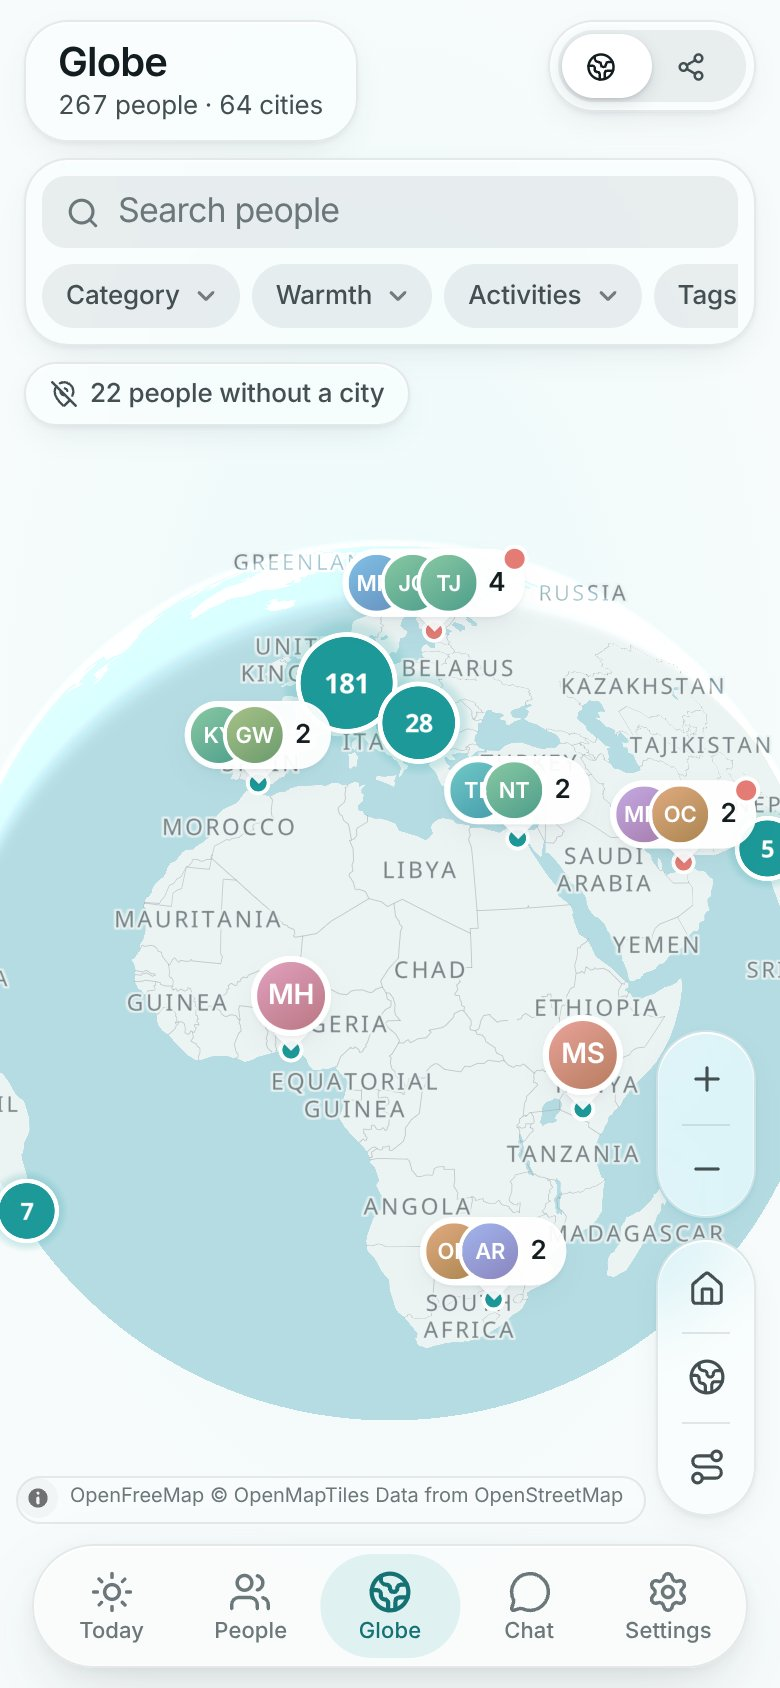
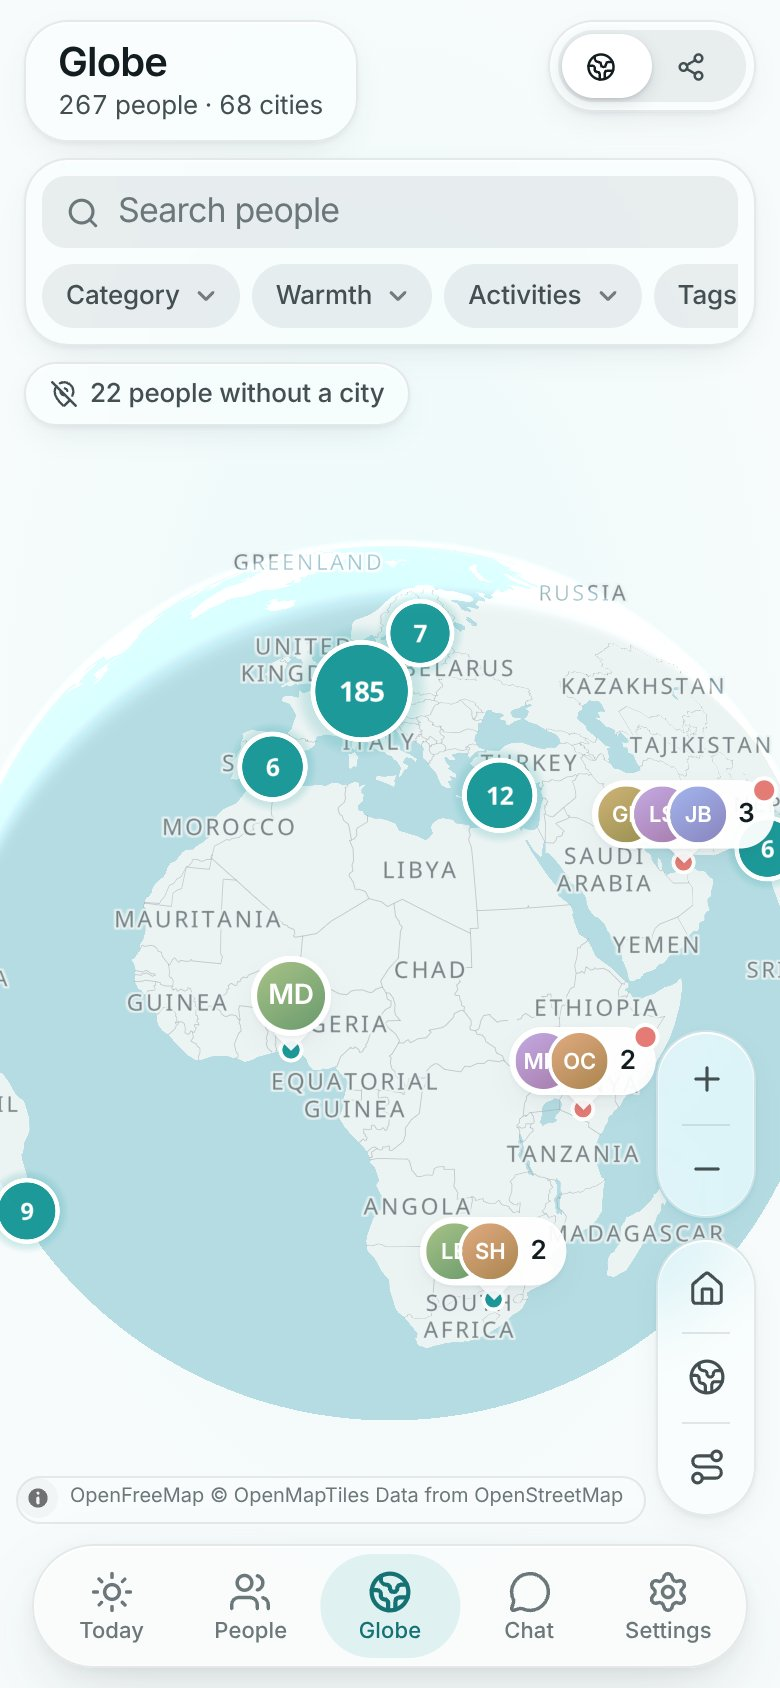
Seed: no leadership roles at real companies; screenshots retaken
A fictional 'CTO, Figma' points at a real person, so the generic seed only
attaches a company to ordinary employee roles. Cities are now assigned
deterministically, so re-seeding reproduces the screenshots. People, Today,
Globe and the social card are retaken from the real app.

Claude-Session: https://claude.ai/code/session_01SZ8xALtSGsx2UckXDu2Tt8

diff --git a/scripts/dev/seed-people.ts b/scripts/dev/seed-people.ts
@@ -55,6 +55,14 @@ const ROLES = [
   "PhD student", "Professor", "Marketing lead", "Data scientist", "Architect", "Doctor", "Lawyer", "Photographer", "Chef", "Journalist",
   "Product manager", "Engineering manager", "Sales director", "Consultant", "Teacher", "Researcher",
 ];
+/**
+ * Only common employee roles name an employer: a unique or leadership role (Founder, CTO, Partner,
+ * Angel investor …) at a real company would point at a real, identifiable person.
+ */
+const EMPLOYEE_ROLES = new Set([
+  "Software engineer", "Product designer", "Data scientist", "Marketing lead", "Product manager", "Engineering manager", "Sales director",
+  "Consultant", "Researcher",
+]);
 const COMPANIES = [
   "Stripe", "Figma", "Anthropic", "Notion", "Linear", "Vercel", "Index Ventures", "Sequoia",
   "ETH Lab", "ETH Zürich", "McKinsey", "Google", "Apple", "Spotify", "Revolut", "Klarna", "N26", "Wise",
@@ -100,7 +108,7 @@ async function seed(count: number) {
     from cities c where c.id = any(${cities.map((c) => c.id)}::int[])
     on conflict (owner_id, city_id) do nothing`;
   const locs = await sql<{ id: string; cc: string }[]>`
-    select id, country_code as cc from locations where owner_id = ${owner} and city_id = any(${cities.map((c) => c.id)}::int[])`;
+    select id, country_code as cc from locations where owner_id = ${owner} and city_id = any(${cities.map((c) => c.id)}::int[]) order by city_id`;
   // Skew towards a handful of "home" cities so facet counts look realistic.
   const weightedLocs = [...locs, ...locs.filter((l) => ["SI", "AT", "GB", "DE"].includes(l.cc)).flatMap((l) => [l, l, l])];
 
@@ -130,13 +138,16 @@ async function seed(count: number) {
     const [first, last] = uniqueName();
     const hasRole = rand() < 0.85;
     const warmth = weighted(WARMTH);
+    const headline = hasRole ? pick(ROLES) : null;
+    // Draw the employer for every role (same random sequence), keep it only for employee roles.
+    const employer = hasRole && rand() < 0.8 ? pick(COMPANIES) : null;
     return {
       owner_id: owner,
       display_name: `${first} ${last}`,
       first_name: first,
       last_name: last,
-      headline: hasRole ? pick(ROLES) : null,
-      company: hasRole && rand() < 0.8 ? pick(COMPANIES) : null,
+      headline,
+      company: headline && EMPLOYEE_ROLES.has(headline) ? employer : null,
       home_location_id: rand() < 0.9 ? pick(weightedLocs).id : null,
       warmth,
       circle: pick(CIRCLES),

diff --git a/scripts/dev/globe-seed.ts b/scripts/dev/globe-seed.ts
@@ -68,7 +68,8 @@ const LAST = [
   "Popescu", "Petrović", "Yılmaz", "Cohen", "Hassan", "Kim", "Lee", "Park", "Wang", "Li", "Zhang", "Chen", "Yamada", "Sato", "Suzuki",
   "Nguyen", "Singh", "Kumar", "Mwangi", "Okafor", "Brown", "Wilson", "Taylor",
 ];
-const ROLES = [["Founder", "Northwind"], ["Designer", "Studio Mono"], ["Engineer", "Figma"], ["Investor", null], ["Doctor", null], ["Product manager", "Stripe"], ["Architect", null], [null, null]];
+// Leadership roles never name a company (see seed-people.ts).
+const ROLES = [["Founder", null], ["Designer", "Studio Mono"], ["Engineer", "Figma"], ["Investor", null], ["Doctor", null], ["Product manager", "Stripe"], ["Architect", null], [null, null]];
 const WARMTH = ["inner", "active", "active", "active", "dormant", "dormant", "archive"];
 
 async function main() {
